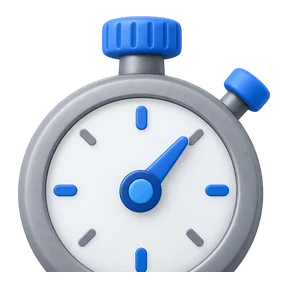
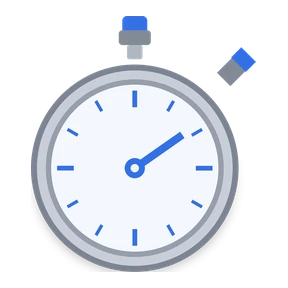
Drawn stopwatch trophy; plain-style trophies get easy challenges
Claude-Session: https://claude.ai/code/session_01T82HzswSGddkd4v84Vh2yp

diff --git a/web/src/i18n/types.ts b/web/src/i18n/types.ts
@@ -23,9 +23,9 @@ export type TrophyId = "limit_breaker" | "first_win" | "long_shot" | "rain_man" 
 export const TROPHY_IDS: TrophyId[] = ["limit_breaker", "first_win", "all_rings", "long_shot", "rain_man", "streak_7", "train_whisperer", "high_roller", "streak_30", "ghost_feed", "wins_100", "wins_500", "streak_100", "bets_500", "all_categories", "win_row_10", "big_odds", "parlay_5", "friends_10", "level_25", "level_50", "chest_30", "collector", "alliance", "compass", "champion", "five_row", "cup", "pace", "diamond", "ghost_streak", "phoenix", "insight", "wave", "rocket"];
 /** The trophies by type, in the order they are shown (profile page and public profile). Every id appears exactly once. */
 export const TROPHY_GROUPS: { id: "wins" | "streaks" | "play" | "social" | "level" | "special"; ids: TrophyId[] }[] = [
-  { id: "wins", ids: ["first_win", "champion", "wins_100", "wins_500", "big_odds", "long_shot", "rocket", "diamond", "insight", "parlay_5"] },
-  { id: "streaks", ids: ["five_row", "win_row_10", "streak_7", "streak_30", "streak_100", "wave", "phoenix", "ghost_streak"] },
-  { id: "play", ids: ["all_rings", "pace", "cup", "bets_500", "compass", "all_categories", "rain_man", "train_whisperer", "chest_30"] },
+  { id: "wins", ids: ["first_win", "champion", "diamond", "insight", "rocket", "long_shot", "wins_100", "wins_500", "big_odds", "parlay_5"] },
+  { id: "streaks", ids: ["five_row", "wave", "ghost_streak", "phoenix", "streak_7", "win_row_10", "streak_30", "streak_100"] },
+  { id: "play", ids: ["all_rings", "pace", "cup", "compass", "rain_man", "bets_500", "all_categories", "train_whisperer", "chest_30"] },
   { id: "social", ids: ["alliance", "friends_10"] },
   { id: "level", ids: ["level_25", "level_50"] },
   { id: "special", ids: ["limit_breaker", "high_roller", "ghost_feed", "collector"] },
@@ -34,7 +34,7 @@ export const TROPHY_RARITY: Record<TrophyId, "common" | "rare" | "epic" | "legen
   limit_breaker: "legendary", first_win: "common", all_rings: "common", long_shot: "rare", rain_man: "rare", streak_7: "rare",
   train_whisperer: "epic", high_roller: "epic", streak_30: "epic", ghost_feed: "epic",
   wins_100: "epic", wins_500: "mythic", streak_100: "legendary", bets_500: "legendary", all_categories: "epic", win_row_10: "legendary", big_odds: "epic", parlay_5: "legendary", friends_10: "epic", level_25: "legendary", level_50: "mythic", chest_30: "epic", collector: "mythic",
-  alliance: "rare", compass: "rare", champion: "epic", five_row: "epic", cup: "epic", pace: "rare", diamond: "epic", ghost_streak: "rare", phoenix: "legendary", insight: "epic", wave: "rare", rocket: "legendary",
+  alliance: "common", compass: "common", champion: "rare", five_row: "rare", cup: "rare", pace: "common", diamond: "rare", ghost_streak: "common", phoenix: "rare", insight: "rare", wave: "common", rocket: "rare",
 };
 
 /** Every locale implements this: add `ja` by creating ja.ts and registering it in index.ts. */

diff --git a/web/src/i18n/ja.ts b/web/src/i18n/ja.ts
@@ -154,18 +154,18 @@ const ja: Messages = {
       level_50: { name: "レベル50", desc: "レベル50に到達。到達者はごくわずかです。" },
       chest_30: { name: "コツコツ派", desc: "デイリー宝箱を30回開封。" },
       collector: { name: "コレクター", desc: "ほかのトロフィーをすべて獲得。" },
-      alliance: { name: "同盟", desc: "ランキングに友達が3人。もう一人じゃない。" },
-      compass: { name: "コンパス", desc: "5つの違うカテゴリで予想した。" },
-      champion: { name: "チャンピオン", desc: "25勝。遅延もあなたに敬意を。" },
-      five_row: { name: "5連勝", desc: "5連勝。調子が出てきた。" },
-      cup: { name: "カップ", desc: "100件の予想が確定。カップにふさわしい。" },
-      pace: { name: "ストップウォッチ", desc: "1日に5件の予想。いいペース。" },
-      diamond: { name: "ダイヤモンド", desc: "オッズ3以上で5勝。硬くて貴重。" },
-      ghost_streak: { name: "ゴースト", desc: "3連敗。幽霊はつきまとうけど、いつか消える。" },
-      phoenix: { name: "フェニックス", desc: "5連敗の直後に勝利。灰から蘇る。" },
-      insight: { name: "洞察", desc: "オッズ2以上で10勝。鋭い目。" },
-      wave: { name: "ロングウェーブ", desc: "14日連続の記録。" },
-      rocket: { name: "ロケット", desc: "オッズ20以上で勝利。月まで。" },
+      alliance: { name: "同盟", desc: "ランキングで最初の友達。" },
+      compass: { name: "コンパス", desc: "3つの違うカテゴリで予想した。" },
+      champion: { name: "チャンピオン", desc: "10勝。遅延が敬意を払い始める。" },
+      five_row: { name: "3連勝", desc: "3連勝。" },
+      cup: { name: "カップ", desc: "25件の予想が確定。" },
+      pace: { name: "ストップウォッチ", desc: "1日に3件の予想。" },
+      diamond: { name: "ダイヤモンド", desc: "オッズ2以上で3勝。" },
+      ghost_streak: { name: "ゴースト", desc: "3連敗。いつか消える。" },
+      phoenix: { name: "フェニックス", desc: "3連敗の直後に勝利。" },
+      insight: { name: "洞察", desc: "オッズ2以上で5勝。" },
+      wave: { name: "ウェーブ", desc: "3日連続の記録。" },
+      rocket: { name: "ロケット", desc: "オッズ4以上で勝利。" },
     },
     shareCard: "プロフィールをシェア", shareText: "LateBetでの私のプロフィール", settings: "設定", signOut: "ログアウト",
     delete: { action: "アカウントとデータを削除", title: "アカウントを削除しますか？", body: "プロフィール、予想、トロフィー、ランキングを削除します。元に戻せません。", confirm: "完全に削除", done: "アカウントを削除しました" },

diff --git a/web/src/i18n/it.ts b/web/src/i18n/it.ts
@@ -154,18 +154,18 @@ const it: Messages = {
       level_50: { name: "Livello 50", desc: "Hai raggiunto il livello 50: pochissimi ci arrivano." },
       chest_30: { name: "Costanza", desc: "30 bauli giornalieri aperti." },
       collector: { name: "Collezionista", desc: "Tutti gli altri trofei sbloccati." },
-      alliance: { name: "Alleanza", desc: "3 amici in classifica. Non sei più solo." },
-      compass: { name: "Bussola", desc: "Hai puntato in 5 categorie diverse. Sai dove andare." },
-      champion: { name: "Campione", desc: "25 vittorie. Il ritardo ti rispetta." },
-      five_row: { name: "Cinque di fila", desc: "5 vittorie consecutive. Si comincia a ballare." },
-      cup: { name: "Coppa", desc: "100 puntate chiuse. Una coppa ci sta." },
-      pace: { name: "Cronometro", desc: "5 puntate in un solo giorno. Che ritmo." },
-      diamond: { name: "Diamante", desc: "5 vittorie con quota da 3 o più. Duro e prezioso." },
-      ghost_streak: { name: "Fantasma", desc: "3 sconfitte di fila. Il fantasma ti segue, ma passerà." },
-      phoenix: { name: "Fenice", desc: "Una vittoria subito dopo 5 sconfitte di fila. Risorgi dalle ceneri." },
-      insight: { name: "Intuizione", desc: "10 vittorie con quota da 2 o più. Occhio lungo." },
-      wave: { name: "Onda lunga", desc: "Una serie di 14 giorni consecutivi." },
-      rocket: { name: "Razzo", desc: "Vinto con una quota da 20 o più. Verso la luna." },
+      alliance: { name: "Alleanza", desc: "Il tuo primo amico in classifica." },
+      compass: { name: "Bussola", desc: "Hai puntato in 3 categorie diverse." },
+      champion: { name: "Campione", desc: "10 vittorie. Il ritardo comincia a rispettarti." },
+      five_row: { name: "Tris di fila", desc: "3 vittorie consecutive." },
+      cup: { name: "Coppa", desc: "25 puntate chiuse." },
+      pace: { name: "Cronometro", desc: "3 puntate in un solo giorno." },
+      diamond: { name: "Diamante", desc: "3 vittorie con quota da 2 o più." },
+      ghost_streak: { name: "Fantasma", desc: "3 sconfitte di fila. Passerà." },
+      phoenix: { name: "Fenice", desc: "Una vittoria subito dopo 3 sconfitte di fila." },
+      insight: { name: "Intuizione", desc: "5 vittorie con quota da 2 o più." },
+      wave: { name: "Onda", desc: "Una serie di 3 giorni consecutivi." },
+      rocket: { name: "Razzo", desc: "Vinto con una quota da 4 o più." },
     },
     shareCard: "Condividi il profilo", shareText: "Il mio profilo su LateBet", settings: "Impostazioni", signOut: "Esci",
     delete: { action: "Elimina account e dati", title: "Eliminare l'account?", body: "Cancelliamo profilo, puntate, trofei e classifiche. Non si può annullare.", confirm: "Elimina definitivamente", done: "Account eliminato" },

diff --git a/web/src/i18n/en-GB.ts b/web/src/i18n/en-GB.ts
@@ -154,18 +154,18 @@ const enGB: Messages = {
       level_50: { name: "Level 50", desc: "You reached level 50. Very few do." },
       chest_30: { name: "Steady Hands", desc: "30 daily chests opened." },
       collector: { name: "Collector", desc: "Every other trophy unlocked." },
-      alliance: { name: "Alliance", desc: "3 friends on the leaderboard. You are not alone." },
-      compass: { name: "Compass", desc: "Bet in 5 different categories. You know where to go." },
-      champion: { name: "Champion", desc: "25 wins. Delays respect you." },
-      five_row: { name: "Five in a row", desc: "5 wins in a row. Warming up." },
-      cup: { name: "Cup", desc: "100 bets settled. A cup is in order." },
-      pace: { name: "Stopwatch", desc: "5 bets in a single day. What a pace." },
-      diamond: { name: "Diamond", desc: "5 wins at odds of 3 or more. Hard and precious." },
-      ghost_streak: { name: "Ghost", desc: "3 losses in a row. The ghost follows you, but it will pass." },
-      phoenix: { name: "Phoenix", desc: "A win right after 5 losses in a row. Rise from the ashes." },
-      insight: { name: "Insight", desc: "10 wins at odds of 2 or more. Sharp eye." },
-      wave: { name: "Long wave", desc: "A streak of 14 days in a row." },
-      rocket: { name: "Rocket", desc: "Won at odds of 20 or more. To the moon." },
+      alliance: { name: "Alliance", desc: "Your first friend on the leaderboard." },
+      compass: { name: "Compass", desc: "Bet in 3 different categories." },
+      champion: { name: "Champion", desc: "10 wins. Delays start to respect you." },
+      five_row: { name: "Three in a row", desc: "3 wins in a row." },
+      cup: { name: "Cup", desc: "25 bets settled." },
+      pace: { name: "Stopwatch", desc: "3 bets in a single day." },
+      diamond: { name: "Diamond", desc: "3 wins at odds of 2 or more." },
+      ghost_streak: { name: "Ghost", desc: "3 losses in a row. It will pass." },
+      phoenix: { name: "Phoenix", desc: "A win right after 3 losses in a row." },
+      insight: { name: "Insight", desc: "5 wins at odds of 2 or more." },
+      wave: { name: "Wave", desc: "A streak of 3 days in a row." },
+      rocket: { name: "Rocket", desc: "Won at odds of 4 or more." },
     },
     shareCard: "Share my profile", shareText: "My LateBet profile", settings: "Settings", signOut: "Sign out",
     delete: { action: "Delete account and data", title: "Delete your account?", body: "We erase your profile, bets, trophies and league positions. This can't be undone.", confirm: "Delete permanently", done: "Account deleted" },

diff --git a/web/src/i18n/en-US.ts b/web/src/i18n/en-US.ts
@@ -154,18 +154,18 @@ const enUS: Messages = {
       level_50: { name: "Level 50", desc: "You reached level 50. Very few do." },
       chest_30: { name: "Steady Hands", desc: "30 daily chests opened." },
       collector: { name: "Collector", desc: "Every other trophy unlocked." },
-      alliance: { name: "Alliance", desc: "3 friends on the leaderboard. You are not alone." },
-      compass: { name: "Compass", desc: "Bet in 5 different categories. You know where to go." },
-      champion: { name: "Champion", desc: "25 wins. Delays respect you." },
-      five_row: { name: "Five in a row", desc: "5 wins in a row. Warming up." },
-      cup: { name: "Cup", desc: "100 bets settled. A cup is in order." },
-      pace: { name: "Stopwatch", desc: "5 bets in a single day. What a pace." },
-      diamond: { name: "Diamond", desc: "5 wins at odds of 3 or more. Hard and precious." },
-      ghost_streak: { name: "Ghost", desc: "3 losses in a row. The ghost follows you, but it will pass." },
-      phoenix: { name: "Phoenix", desc: "A win right after 5 losses in a row. Rise from the ashes." },
-      insight: { name: "Insight", desc: "10 wins at odds of 2 or more. Sharp eye." },
-      wave: { name: "Long wave", desc: "A streak of 14 days in a row." },
-      rocket: { name: "Rocket", desc: "Won at odds of 20 or more. To the moon." },
+      alliance: { name: "Alliance", desc: "Your first friend on the leaderboard." },
+      compass: { name: "Compass", desc: "Bet in 3 different categories." },
+      champion: { name: "Champion", desc: "10 wins. Delays start to respect you." },
+      five_row: { name: "Three in a row", desc: "3 wins in a row." },
+      cup: { name: "Cup", desc: "25 bets settled." },
+      pace: { name: "Stopwatch", desc: "3 bets in a single day." },
+      diamond: { name: "Diamond", desc: "3 wins at odds of 2 or more." },
+      ghost_streak: { name: "Ghost", desc: "3 losses in a row. It will pass." },
+      phoenix: { name: "Phoenix", desc: "A win right after 3 losses in a row." },
+      insight: { name: "Insight", desc: "5 wins at odds of 2 or more." },
+      wave: { name: "Wave", desc: "A streak of 3 days in a row." },
+      rocket: { name: "Rocket", desc: "Won at odds of 4 or more." },
     },
     shareCard: "Share my profile", shareText: "My LateBet profile", settings: "Settings", signOut: "Sign out",
     delete: { action: "Delete account and data", title: "Delete your account?", body: "We erase your profile, bets, trophies and rankings. This can't be undone.", confirm: "Delete permanently", done: "Account deleted" },
